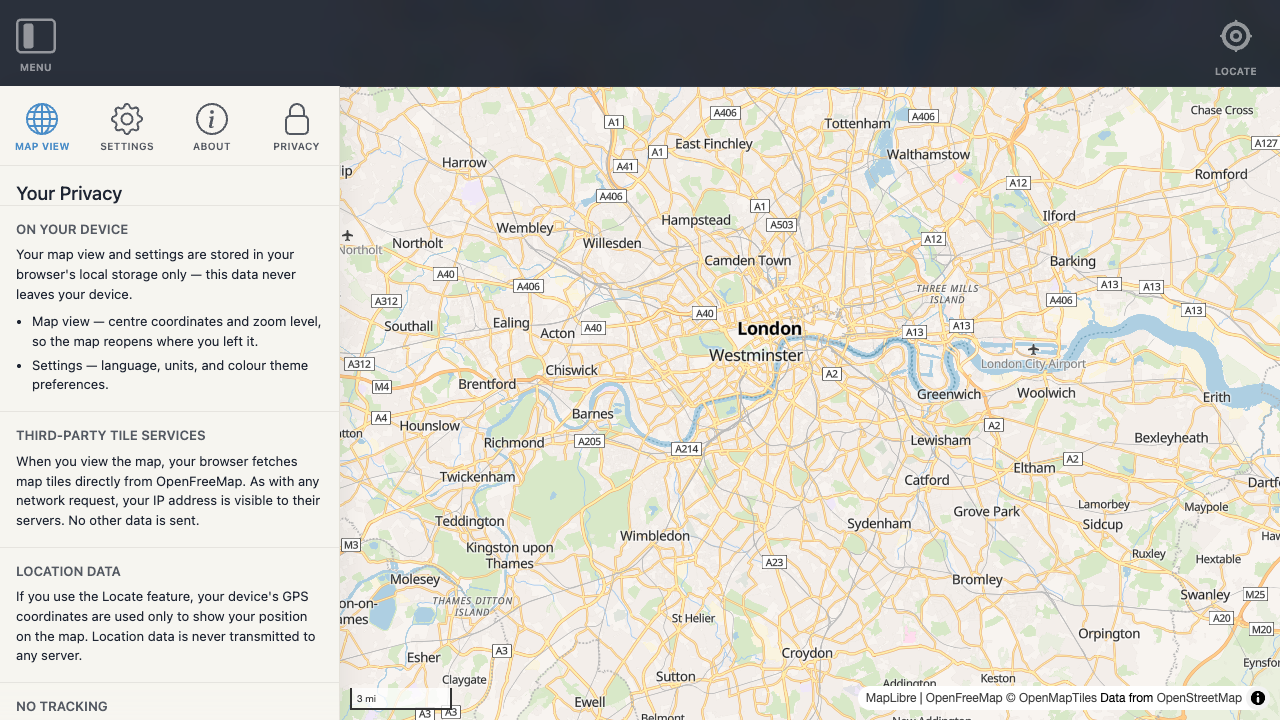
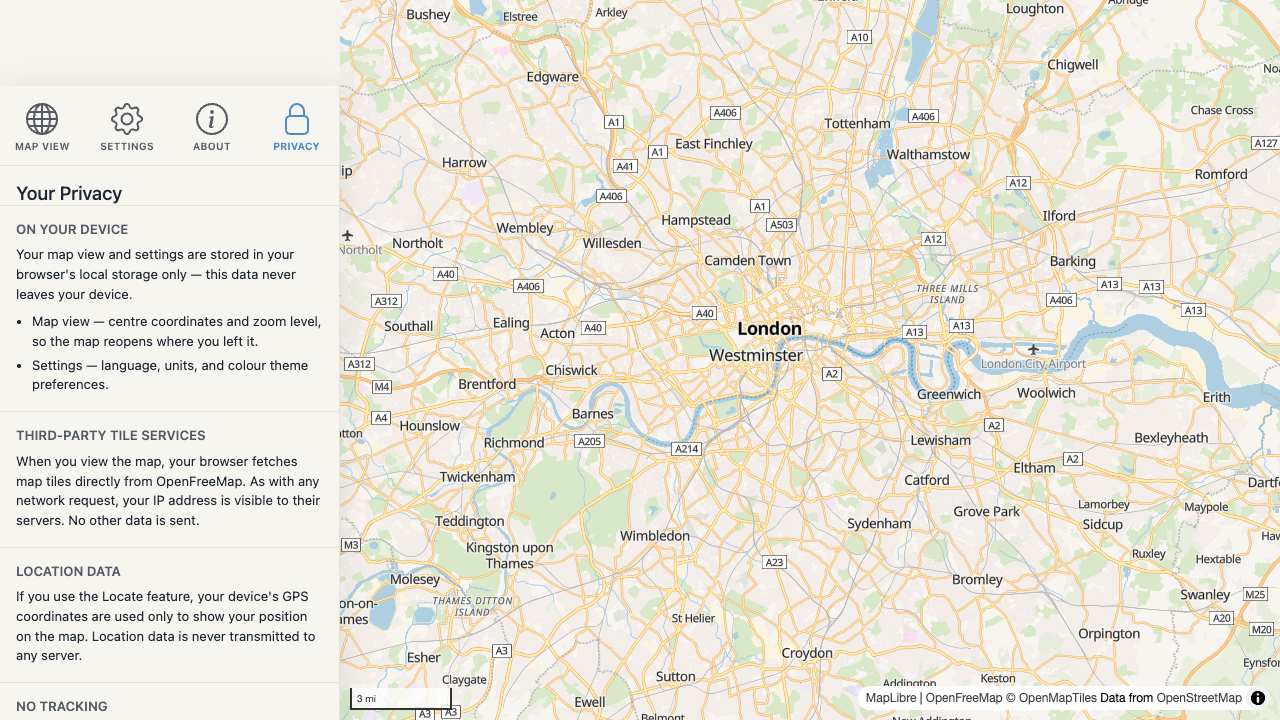
Docs

Changed region(s): [[0.0, 0.0, 1.0, 0.1222], [0.0, 0.1528, 0.0625, 0.2139], [0.2188, 0.1528, 0.25, 0.2139]]

diff --git a/src/App.vue b/src/App.vue
@@ -57,9 +57,9 @@ if (isDesktop.value) {
 		:data-bs-theme="resolvedTheme"
 	>
 		<div style="display: none" v-html="iconSprite"></div>
-		<div class="navigator-top">
+		<!-- 		<div class="navigator-top">
 			<Top />
-		</div>
+		</div> -->
 
 		<div class="navigator-content">
 			<Panels />
@@ -75,5 +75,3 @@ if (isDesktop.value) {
 		/>
 	</div>
 </template>
-
-

diff --git a/docs/core/3.map.md b/docs/core/3.map.md
@@ -1,6 +1,6 @@
 # Map — `useMap`
 
-`useMap` manages the MapLibre GL JS map lifecycle: creation, view persistence, and cleanup. It is instance-aware — it scopes its state to the active Navigator instance via `inject('navigatorId')`.
+`useMap` manages the MapLibre GL JS [map](https://maplibre.org/maplibre-gl-js/docs/API/classes/Map/) lifecycle: creation, view persistence, and cleanup. It is instance-aware — it scopes its state to the active Navigator instance via `inject('navigatorId')`.
 
 ---
 
@@ -22,17 +22,9 @@ If the URL contains a `#map=…` hash on page load, Navigator uses it as the ini
 
 As the map is panned or zoomed, the URL hash is updated automatically (throttled to once per second, matching the localStorage persistence interval). The hash and the persisted view are always kept in sync.
 
-### Share link in the menu
-
-The navigation menu panel displays the current map coordinates and zoom level, and a **Share this view** link. Clicking the link opens the current map view in a new tab, or you can copy the URL to share a specific location.
-
-The **Current view** section is hidden on a true first visit (no URL hash, no persisted view). It appears as soon as a view is available — either because the page loaded with a `#map=…` hash, the user has a previously saved view, or the map has been panned or zoomed.
-
-![Menu panel with current view coordinates and share link](../../assets/screenshots/docs/map/url-hash.png)
-
 ---
 
-## `useMap` — `src/composables/useMap.js`
+## [`useMap`](https://github.com/OpenGIS/navigator/blob/master/src/composables/useMap.js)
 
 Manages the MapLibre GL JS map lifecycle: creation, view persistence, and cleanup.
 
@@ -41,8 +33,8 @@ Manages the MapLibre GL JS map lifecycle: creation, view persistence, and cleanu
 Call `useMap` with a Vue template ref from the component that owns the map container. This is done once, in `App.vue`.
 
 ```js
-import { ref } from 'vue';
-import { useMap } from '@/composables/useMap';
+import { ref } from "vue";
+import { useMap } from "@/composables/useMap";
 
 const mapContainer = ref(null);
 useMap(mapContainer, mapOptions);
@@ -93,9 +85,9 @@ Any [MapLibre `MapOptions`](https://maplibre.org/maplibre-gl-js/docs/API/type-al
 const { map, currentView } = useMap();
 ```
 
-| Property | Type | Description |
-|----------|------|-------------|
-| `map` | `maplibregl.Map \| null` | The active MapLibre map instance, or `null` before load |
+| Property      | Type                            | Description                                                             |
+| ------------- | ------------------------------- | ----------------------------------------------------------------------- |
+| `map`         | `maplibregl.Map \| null`        | The active MapLibre map instance, or `null` before load                 |
 | `currentView` | `Ref<{lat, lng, zoom} \| null>` | Reactive current map view, or `null` on first visit before any movement |
 
 > **Callbacks and composables:** if you need to access the map inside an async callback or a composable that runs outside a Vue setup context (e.g. geolocation handlers), use `getMapInstance(instanceId)` from the same module instead of destructuring `map` at call time — see [`getMapInstance`](#getmapinstance) below.
@@ -103,7 +95,7 @@ const { map, currentView } = useMap();
 ### `getMapInstance`
 
 ```js
-import { getMapInstance } from '@/composables/useMap';
+import { getMapInstance } from "@/composables/useMap";
 
 const doSomethingWithMap = (instanceId) => {
   const map = getMapInstance(instanceId);

diff --git a/docs/core/2.instances.md b/docs/core/2.instances.md
@@ -110,7 +110,7 @@ nav.unmount();
 
 ## Internal Storage Convention
 
-Navigator uses a composable ([`useStorage`](https://github.com/OpenGIS/navigator/blob/master/src/composables/useStorage.js) to persist state to `localStorage`. Keys follow the pattern:
+Navigator uses a composable ([`useStorage`](https://github.com/OpenGIS/navigator/blob/master/src/composables/useStorage.js)) to persist state to `localStorage`. Keys follow the pattern:
 
 ```
 navigator_{namespace}_{instanceId}
